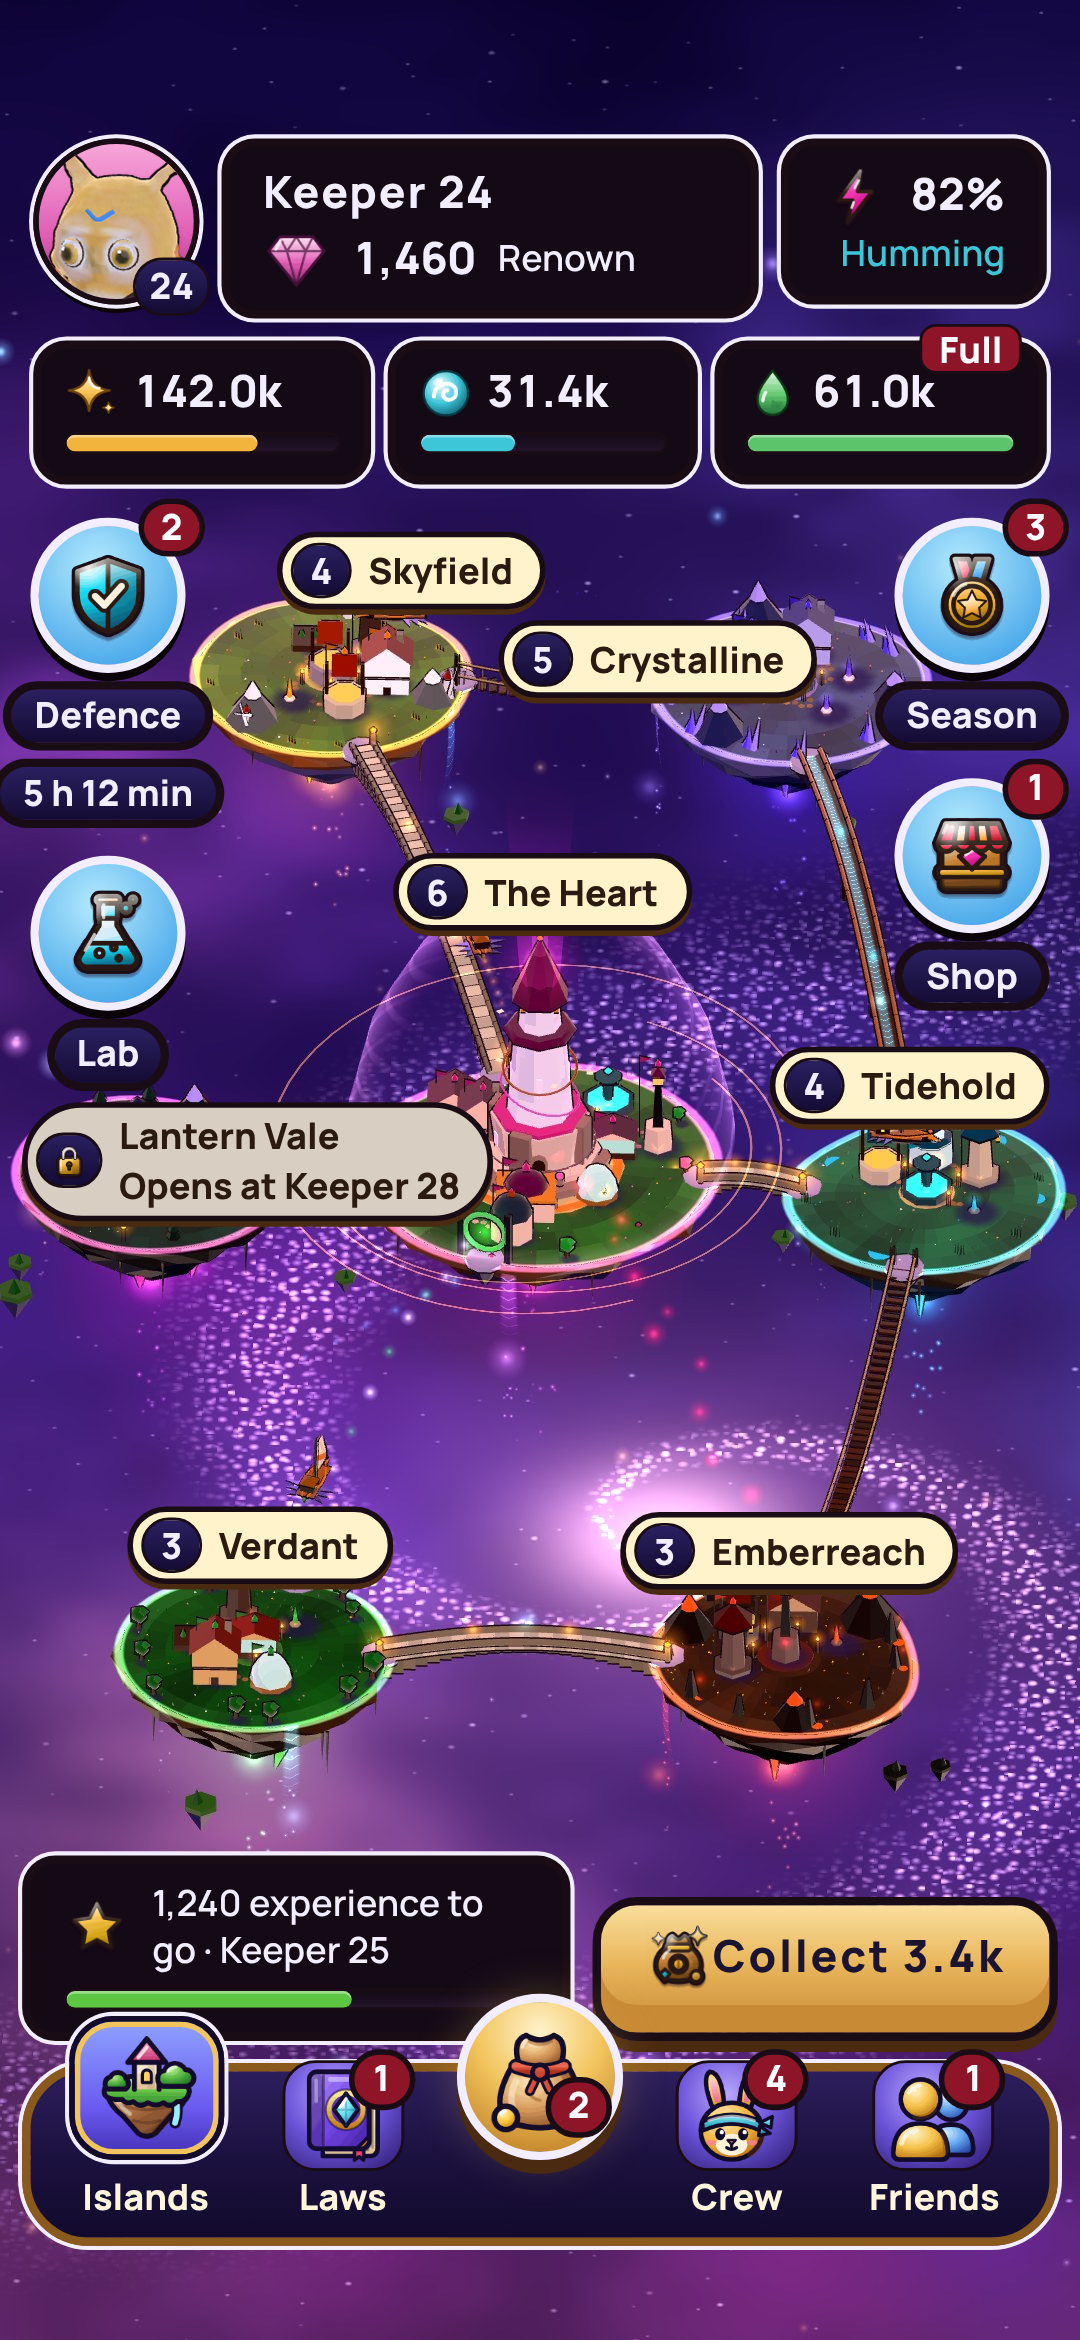
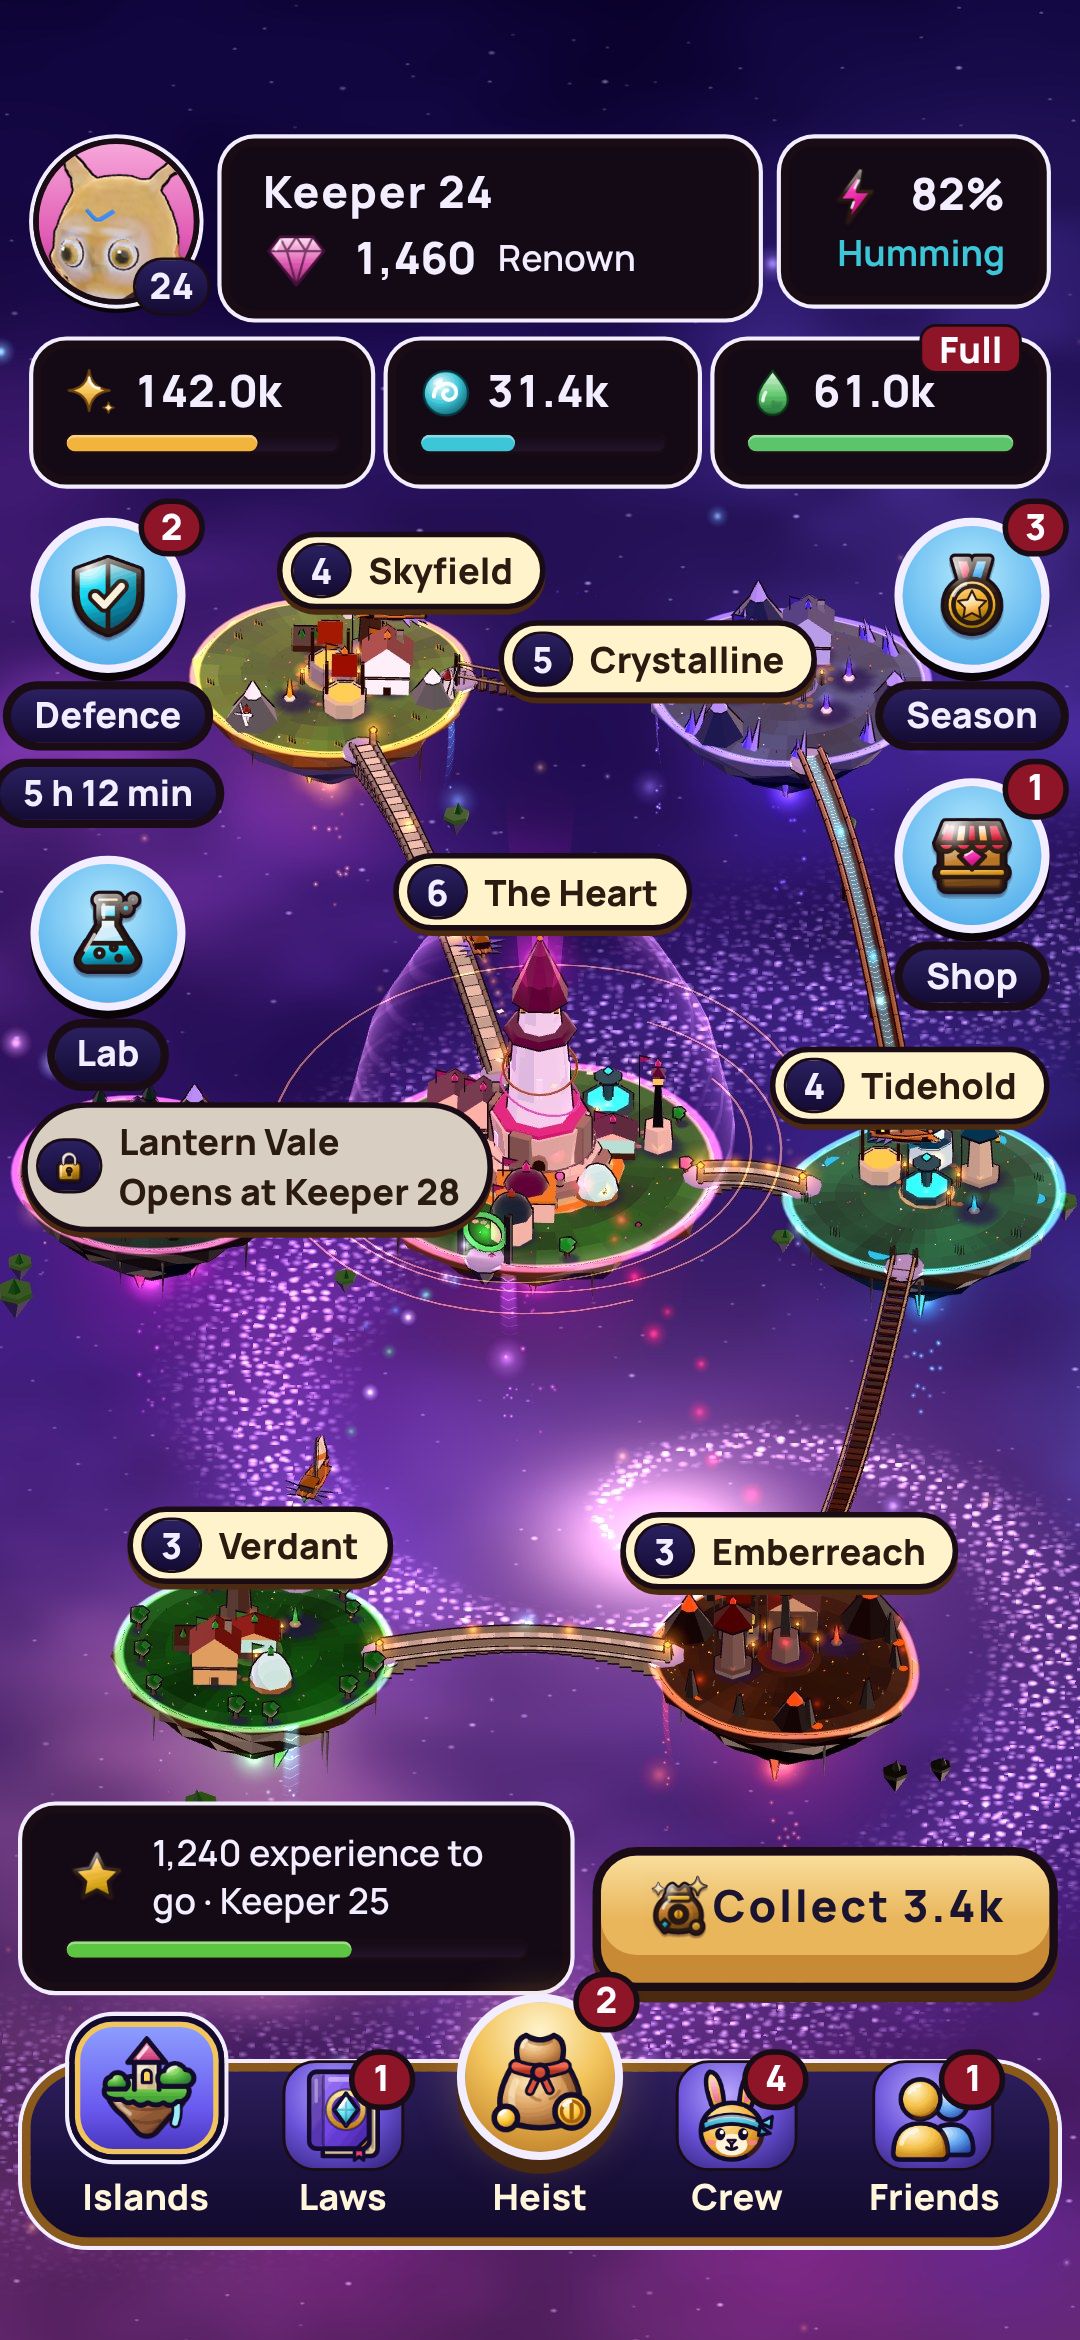
Key frames: the scripted checks, passing on all twelve stills
check_keyframes.mjs checks the pages' colours, the game's words, type size,
touch areas, the safe area, overlaps, clipping, the heist's eight controls,
value steps and still sizes; its self-test plants a fault for each.
check_board.mjs's checkMode skips words the page does not draw.

Claude-Session: https://claude.ai/code/session_01SNkKxpN6fMr3qL58LFyGpB

Changed region(s): [[0.0, 0.7487, 0.9778, 0.9671], [0.0306, 0.4679, 0.4583, 0.5303], [0.7944, 0.0936, 0.8861, 0.1248]]

diff --git a/art/ui/keyframes/kit.css b/art/ui/keyframes/kit.css
@@ -559,7 +559,7 @@ body { position: relative; background-color: var(--c-night-bottom); background-s
 /* ---------- heist ----------
    §21.8's arrangement in three columns at the top and the hand at the
    bottom; the world between them stays clear. */
-.heist { justify-content: space-between; }
+.screen.heist { justify-content: space-between; }
 .heist-top { display: grid; grid-template-columns: 1fr auto 1fr; gap: 6px; align-items: start; padding: 6px 8px 0; }
 .laws { display: flex; flex-direction: column; align-items: flex-start; gap: 5px; min-width: 0; }
 /* "Laws here" in gold with an ink outline, as the game's (heist_hud.gd). */
@@ -662,7 +662,7 @@ body { position: relative; background-color: var(--c-night-bottom); background-s
 .large .tab:not(.active) > .well > img { width: 40px; height: 40px; }
 /* The side buttons' sky keeps its light to two thirds of the way out, so
    an icon of dark wood still leaves the face two steps off the night. */
-.sb .face { background: radial-gradient(circle at 42% 30%, #B6ECFF 0%, #4AA8EA 80%, #163E8C 100%); }
+.sb .face { background: var(--g-round-sky) 30% 20% / 160% 160%; }
 /* In high contrast a round control's outline is its own edge: 3 points of
    the night's text colour, drawn on the face, not around it. */
 :is(html.hc) .sb .face, :is(html.hc) .gold-round { border-color: var(--c-text-on-night); box-shadow: 0 3px 0 var(--c-drop); }
@@ -688,3 +688,42 @@ body { position: relative; background-color: var(--c-night-bottom); background-s
 .large .mid { padding-top: 0; }
 .large .sb { gap: 0; }
 .large .side { gap: 6px; }
+/* The key frames' gold holds its gold down to the lip, so the words on the
+   face keep APCA's level wherever they sit. */
+.gold {
+  --g-gold-face: linear-gradient(180deg, var(--c-gold-top) 0%, var(--c-gold) 50%, var(--c-gold) calc(100% - var(--lip)), var(--c-gold-bottom) 100%);
+  background:
+    linear-gradient(0deg,
+      color-mix(in srgb, var(--c-gold-rim) 22%, transparent) 0 var(--lip),
+      color-mix(in srgb, var(--c-gold-top) 70%, transparent) var(--lip) calc(var(--lip) + 1.5px),
+      color-mix(in srgb, var(--c-gold-top) 0%, transparent) calc(var(--lip) + 1.5px)),
+    var(--g-gold-face);
+}
+:is(html.hc) .gold { background: var(--g-gold-face); }
+/* The heist tab's count sits on the lift's shoulder, off the tab's word. */
+html:not(.large) .tab.heist .badge { top: auto; bottom: calc(20px * var(--ts) + 48px); right: calc(50% - 36px); }
+/* The heist tab's lift rises out of the bar; the goal row stands clear of it. */
+html:not(.large) .goal-row { margin-bottom: 16px; }
+/* A locked pin's two lines keep clear of its edge. */
+.pin.locked { padding-top: 4px; padding-bottom: 4px; }
+/* The band's word is small, so it is bold, for APCA's level at 13 points. */
+.band-word { font-weight: 700; }
+/* The dial's seconds stand on its dark middle, clear of the cream ring. */
+.dial { width: calc(34px * var(--ts)); height: calc(34px * var(--ts)); background: radial-gradient(closest-side, var(--c-drop) 84%, transparent 85%), conic-gradient(var(--c-cream) var(--v), var(--c-drop) 0); }
+/* At 200% the tab badges stand centred over their tab, clear of the next
+   tab's coin; the Season badge's column steps down to clear the strain card;
+   the plates keep their letters off their rim; the Cast button grows so its
+   words stand on the gold, above the lip. */
+.large .tab .badge { right: auto; left: 50%; transform: translateX(-50%); }
+.large .side:last-child { padding-top: 10px; }
+.large .plate { padding: 2px 12px 3px; }
+.dial { width: calc(30px * var(--ts)); height: calc(30px * var(--ts)); }
+.large .cast.gold { min-height: 58px; }
+/* A pin's tall letters keep off its rim at 200%; a tab's badge stands over
+   the next tab's coin glow; the high-contrast bar's thicker rim lifts the
+   coin 2 points, so the goal row steps up with it. */
+.large .pin:not(.small) { padding-top: 4px; padding-bottom: 4px; }
+.tab .badge { z-index: 2; }
+html.hc:not(.large) .goal-row { margin-bottom: 18px; }
+/* At 200% a badge's figure keeps 3 points off its rim. */
+.large .badge { padding-top: 3px; padding-bottom: 3px; }

diff --git a/art/ui/keyframes/kit.js b/art/ui/keyframes/kit.js
@@ -145,5 +145,7 @@
       cells.splice(i, 1);
     }
   };
+  // Every face loads, used or not, so the page is the same in every form.
+  for (const f of document.fonts) f.load();
   document.fonts.ready.then(() => { settle(); html.dataset.ready = '1'; });
 })();

diff --git a/art/ui/keyframes/README.md b/art/ui/keyframes/README.md
@@ -1,0 +1,47 @@
+# Key frames
+
+Home and heist at the phone's size (390 x 845 points, each still 1080 x 2340),
+on the approved style board's tokens (`../board/tokens.css`), in the game's own
+words. Each page has three forms, and each form comes in English and Brazilian
+Portuguese.
+
+| Page | As written | Text at 200% | High contrast |
+|---|---|---|---|
+| `01-home.html` | `01-home.png` | `01-home_text200.png` | `01-home_hc.png` |
+| `02-heist.html` | `02-heist.png` | `02-heist_text200.png` | `02-heist_hc.png` |
+
+Each still has a `_pt_BR` twin and a `.shot.json` beside it, which lists the
+rectangle of every control for `tools/ui_gate/checks.py value-steps`.
+
+## Files
+
+- `01-home.html` and `02-heist.html` are the pages. `?lang=pt_BR`, `?text=200` and `?hc=1`
+  give the other forms.
+- `kit.css` holds the shared parts: plates, pills, gold, glass, tabs, pins,
+  the hand tray and the large-text changes. It uses token colours only.
+- `kit.js` reads the mode from the address, fills in the words and numbers as the game writes
+  them, adds the grain, and sets the realm pins clear of the interface.
+- `words.js` is written by `build_words.mjs` from `client/i18n/strings.csv` and `content.csv`.
+- `bg/` and `art/` hold the worlds behind the interface and the
+  portraits, baked from the game by `bake.sh` (`bake_home.gd`, `bake_portraits.gd`).
+- `shoot_keyframes.mjs` takes the twelve stills and their shots.
+- `check_keyframes.mjs` holds the scripted checks. Its header lists each check.
+
+## Running it
+
+```
+bash art/ui/keyframes/bake.sh                          # worlds and portraits, when they change
+node art/ui/keyframes/build_words.mjs                  # words.js, when the strings change
+node art/ui/keyframes/shoot_keyframes.mjs              # the twelve stills and shots
+node art/ui/keyframes/check_keyframes.mjs              # the checks; --out report.json for rows
+node art/ui/keyframes/check_keyframes.mjs --self-test  # each check fails what it should
+```
+
+## The forms
+
+- **Text at 200%.** Every word doubles. Above 125%, the game's bars show icons only, so these changes apply:
+  - only the chosen tab keeps its word;
+  - the side buttons' names and the heist's chosen name, the Sage's plate and the button icons are hidden;
+  - the hand lays its buttons out in rows;
+  - a realm pin that cannot find room keeps only its level.
+- **High contrast.** Every surface is opaque, with 3-point outlines, and the high-contrast world sits behind it.
